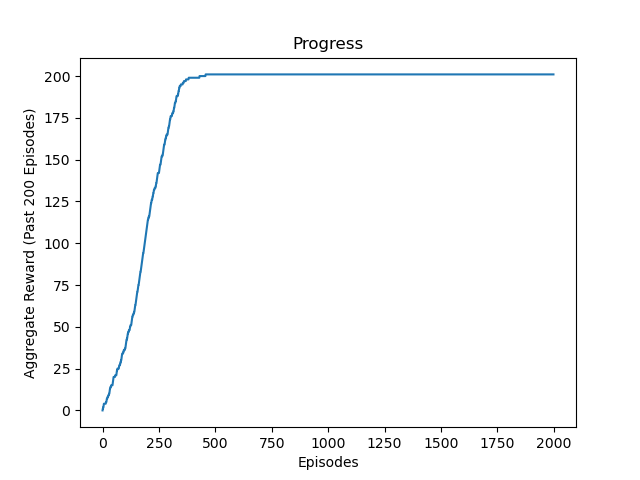
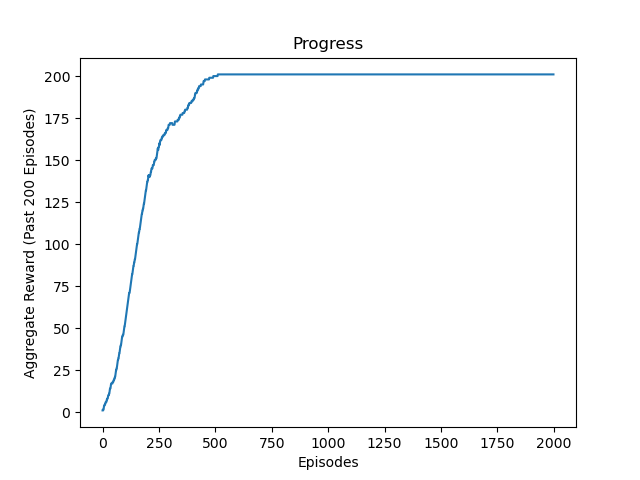
goal as additional parameter

diff --git a/preschool/grid_world/rand_target.py b/preschool/grid_world/rand_target.py
@@ -58,8 +58,6 @@ class Rand_Target(gym.Wrapper):
             self.target_position = self.env.map.random_location()
             while np.equal(self.env.agent_coordinates, self.target_position).all():
                 self.target_position = self.env.map.random_location()
-            #TODO: only set to fixed point for testing the RL algorithm
-            self.target_position = np.array([0,0])
             observation, info= super().reset(seed=seed, options=options)
             self.render_mode_setting = self.env.render_mode
             self.render()
@@ -116,13 +114,11 @@ class PrescCoordinates(gym.ObservationWrapper):
             self.observation_space = spaces.Box(
                 low=0,
                 high=1,
-                #shape=(4,),
-                shape=(2,),
+                shape=(4,),
                 dtype=np.float32
             )
 
     def observation(self, observation):
-         return np.array([self.env.agent_coordinates[0], self.agent_coordinates[1]])
          return np.array([self.env.agent_coordinates[0], self.agent_coordinates[1], self.target_position[0], self.target_position[1]])
 
     

diff --git a/GUARDIANCE/LLM_hybrid/navigation_agent_demo.py b/GUARDIANCE/LLM_hybrid/navigation_agent_demo.py
@@ -37,6 +37,6 @@ if __name__ == '__main__':
     env = Rand_Target(env)
     env = PrescCoordinates(env)
 
-    agent_name = "navigation_agent_1_episodes"
+    agent_name = "navigation_agent_2000_episodes"
     agent= setup_agent(agent_name)
     visualize(agent=agent, env=env)
